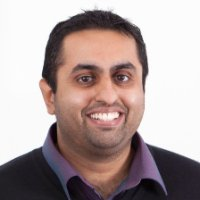
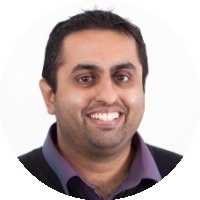
Update for September

Changed region(s): [[0.57, 0.78, 1.0, 1.0], [0.0, 0.78, 0.42, 1.0]]

diff --git a/index.html b/index.html
@@ -117,43 +117,56 @@
 
 
           <div class="col-md-4 col-sm-6 feature">
-            <img src="img/speaker-christos-matskas.png" class="speaker-img">
-            <span font-weight:"bold"><h3>Christos Matskas</h3></span>
-            <h4>Serverless architecture with Azure</h4>
-            <h4>Thursday 22nd March 2018</h4>
-            <p>Azure Functions, LogicApps and Event Grid are the backbone of Azure Serverless. They support event-driven, micro-billing, horizontally scalable and all running on a fully managed infrastructure. Did I give it all away?</p>
-            <p>This is not even half of the story! Azure Serverless is quickly becoming the go-to service for many different solutions, allowing developers to focus on what really matters, solving real world problems. These services come with a great developer story, a testable framework, local development and support for end-to-end DevOps.</p>
+            <img src="img/speaker-ian-cooper.png" class="speaker-img">
+            <span font-weight:"bold"><h3>Ian Cooper</h3></span>
+            <h4>Safe at Any Speed</h4>
+            <h4>Wednesday 26th September 2018</h4>
+            <p>You committed to TDD, you embraced your agile methodology, you read up on CQRS and whiteboarded your microservices. The time has to come to release and you are brimming with confidence.</p>
+            <p>But once you are live the pain starts coming; deadlocks in the Db, servers that begin queuing requests and then fail, users reporting errors you have never seen.</p>
+            <p>Keeping an application alive in production takes more than just good practices. You have to understand stability patterns like retry and circuit breaker, you have to understand what it means to be a multi-user system if you don't want deadlocks.</p>
             <ul class="speaker-social">
-              <li><a href="https://cmatskas.com"><span class="ti-link"></span></a></li>
-              <li><a href="https://twitter.com/ChristosMatskas"><span class="ti-twitter-alt"></span></a></li>
+              <li><a href="https://medium.com/@ICooper"><span class="ti-link"></span></a></li>
+              <li><a href="https://twitter.com/ICooper"><span class="ti-twitter-alt"></span></a></li>
             </ul>
             <br />
-            <img src="img/registration-not-open.png" />
+            <a href="https://www.eventbrite.co.uk/e/safe-at-any-speed-with-ian-cooper-tickets-50074140101" target="_blank"><img src="https://www.eventbrite.co.uk/custombutton?eid=18939698147" alt="Eventbrite" /></a>
           </div>
-
             <div class="col-md-4 col-sm-6 feature">
-              <img src="img/speaker-martin-kearn.png" class="speaker-img">
-              <span font-weight:"bold"><h3>Martin Kearn</h3></span>
-              <h4>Machine Learning for Muggles</h4>
-              <h4>Wednesday 18th April 2018</h4>
-              <p>Artificial Intelligence is the latest hotness. Machine Learning sits behind artificial intelligence and on the surface it may seem like a deeply technical, scientific topic. We are here to tell you that it is more accessible than you think. We’ll look at some of the basics around the Azure Machine Learning service. We’ll also look some of the Microsoft Cognitive Services APIs which make it very easy to implement artificial intelligence ‘smarts’ into your application with simple, standard REST calls.</p>
+              <img src="img/ed-yau.jpg" class="speaker-img">
+              <span font-weight:"bold"><h3>Ed Yau</h3></span>
+              <h4>TBC</h4>
+              <h4>October 2018</h4>
+              <p>Attendees at this years DDDSW may remember Ed Yau.  Ed has kindly agreed to do a session in October, details coming soon.</p>
+              <br />
+              <br />
+              <br />
+              <br />
+              <br />
+              <br />
+              <br />
+              <br />
               <br />
               <ul class="speaker-social">
-                <li><a href="http://martink.me/"><span class="ti-link"></span></a></li>
-                <li><a href="https://twitter.com/MartinKearn"><span class="ti-twitter-alt"></span></a></li>
+                <li><a href="https://medium.com/edyau"><span class="ti-link"></span></a></li>
+                <li><a href="https://twitter.com/hello_edyau"><span class="ti-twitter-alt"></span></a></li>
               </ul>
-              <br />      
-              <a href="https://www.eventbrite.co.uk/e/machine-learning-for-muggles-tickets-44227782488?ref=ssdevs" target="_blank"><img src="https://www.eventbrite.co.uk/custombutton?eid=18939698147" alt="Eventbrite" /></a>
+              <br />
+              <img src="img/registration-not-open.png" />
             </div>
 
             <div class="col-md-4 col-sm-6 feature">
                 <img src="img/summer-beers.png" class="speaker-img">
-                <span font-weight:"bold"><h3>Scheduled Summer Break</h3></span>
-                <h4>At a beer garden near you!</h4>
-                <h4>June - August 2018</h4>
-                <p>We know you love Shropshire Devs but rather than try to compete with the call of the beer garden, we're going to have our annual summer break again this year.</p>
-                <p>The hard work doesn't stop for us though, so if you've got a talk in mind that you want to present or a topic you'd like us to find a speaker for, let us know!</p>
-                <p>See you all back in September!</p>
+                <span font-weight:"bold"><h3>TBC</h3></span>
+                <h4>TBC</h4>
+                <h4>November 2018</h4>
+                <p>TBC</p>
+                <br />
+                <br />
+                <br />
+                <br />
+                <br />
+                <br />
+                <br />
                 <br />
                 <br />
                 <br />
@@ -210,7 +223,8 @@
           <div class="col-md-12">
             <!-- Nav tabs -->
             <ul class="nav nav-tabs" role="tablist">
-              <li role="presentation" class="active"><a href="#2018" aria-controls="profile" role="tab" data-toggle="tab">2018</a></li>
+              <li role="presentation" class="active">
+                <a href="#2018" aria-controls="profile" role="tab" data-toggle="tab">2018</a></li>
               <li role="presentation"><a href="#2017" aria-controls="profile" role="tab" data-toggle="tab">2017</a></li>
               <li role="presentation"><a href="#2016" aria-controls="profile" role="tab" data-toggle="tab">2016</a></li>
               <li role="presentation"><a href="#2015" aria-controls="profile" role="tab" data-toggle="tab">2015</a></li>
@@ -247,14 +261,69 @@
                           <div class="media-body">
                             <h4 class="media-heading">Tuesday 27th February 2018</h4>
                             <h5>Ian Cooper</h5>
-                            <p>Safe at any Speed</p>
-                            <p>* Cancelled due adverse weather conditions *</p>
+                            <p>** Cancelled due to adverse weather conditions **</p>
+                          </div>
+                        </div>
+                      </div>
+                      <div class="col-md-6">
+                        <div class="media">
+                          <div class="media-left">
+                            <a href="#">
+                              <img class="media-object" src="img/speaker-christos-matskas.png" alt="...">
+                            </a>
+                          </div>
+                          <div class="media-body">
+                            <h4 class="media-heading">Thursday 22nd March 2018</h4>
+                            <h5>Christos Matskas</h5>
+                            <p>Serverless architecture with Azure</p>
+                          </div>
+                        </div>
+                      </div>
+                      <div class="col-md-6">
+                        <div class="media">
+                          <div class="media-left">
+                            <a href="#">
+                              <img class="media-object" src="img/speaker-martin-kearn.png" alt="...">
+                            </a>
+                          </div>
+                          <div class="media-body">
+                            <h4 class="media-heading">Wednesday 18th April 2018</h4>
+                            <h5>Martin Kearn</h5>
+                            <p>Machine Learning for Muggles</p>
+                          </div>
+                        </div>
+                      </div>
+                      <div class="col-md-6">
+                        <div class="media">
+                          <div class="media-left">
+                            <a href="#">
+                              <img class="media-object" src="img/andy-clarke.jpg" alt="...">
+                            </a>
+                          </div>
+                          <div class="media-body">
+                            <h4 class="media-heading">Thursday 17 May 2018</h4>
+                            <h5>Andy Clarke</h5>
+                            <p>Unity 101 for C# Developers</p>
+                          </div>
+                        </div>
+                      </div>
+                      <div class="col-md-6">
+                        <div class="media">
+                          <div class="media-left">
+                            <a href="#">
+                              <img class="media-object" src="img/summer-beers.png" alt="...">
+                            </a>
+                          </div>
+                          <div class="media-body">
+                            <h4 class="media-heading">June - Aug 2018</h4>
+                            <h5>Summer Break</h5>
+                            <p>Scheduled summer break!</p>
                           </div>
                         </div>
                       </div>
                     </div>
                   </div>
-              <div role="tabpanel" class="tab-pane fade in active" id="2017">
+              <div role="tabpanel" class="tab-pane fade in" id="2017">
                 <div class="row">
                   <div class="col-md-6">
                     <div class="media">
